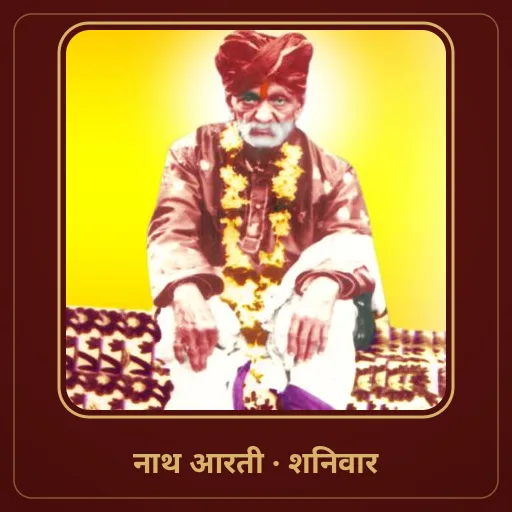
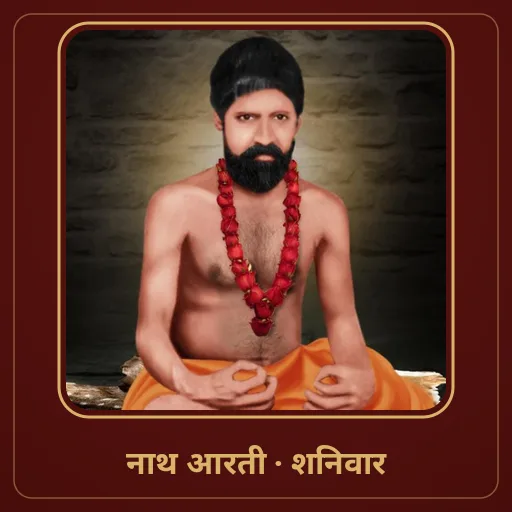
changes

diff --git a/scripts/apply-audio-covers.js b/scripts/apply-audio-covers.js
@@ -13,6 +13,10 @@
 // Only songs with no cover of their own are changed, so an image an admin
 // uploaded is never replaced. Songs sharing a picture share one file.
 //
+// To change a picture, replace its .webp below and run again. Its songs get a
+// fresh copy under a new URL, so phones do not keep showing a cached old one,
+// and the old copy is deleted once nothing uses it.
+//
 // Inputs, bundled so the live server has them too:
 //   assets/audio-covers/<id>.webp   the 512×512 pictures
 //   assets/audio-covers/map.json    { id: { title, audioFile?, image? } } — from
@@ -24,6 +28,7 @@ import fs from 'node:fs'
 import path from 'node:path'
 import { fileURLToPath } from 'node:url'
 import { prisma } from '../src/lib/prisma.js'
+import { removeUploadIfUnused } from '../src/lib/uploadFiles.js'
 
 const ROOT = path.resolve(path.dirname(fileURLToPath(import.meta.url)), '..')
 const SRC = path.join(ROOT, 'assets/audio-covers')
@@ -45,6 +50,15 @@ function fileKey(ref) {
 // clears.
 const OURS = /^\/uploads\/cover\/\d+-audio-[a-z0-9_]+\.webp$/
 
+// True when both files exist and hold the same bytes.
+function sameBytes(a, b) {
+  try {
+    return fs.readFileSync(a).equals(fs.readFileSync(b))
+  } catch {
+    return false
+  }
+}
+
 async function main() {
   const map = JSON.parse(fs.readFileSync(path.join(SRC, 'map.json'), 'utf8'))
   const byFile = new Map()
@@ -62,24 +76,28 @@ async function main() {
     orderBy: [{ productId: 'asc' }, { sortOrder: 'asc' }],
   })
 
-  // Reuse a file this script already copied for the same picture.
+  // Reuse a file this script already copied for the same picture, but only
+  // while it still matches the picture here. A changed picture, or a copy lost
+  // from uploads/, gets a fresh file.
   const existing = new Map()
   for (const s of songs) {
     const m = s.coverUrl && OURS.test(s.coverUrl) && s.coverUrl.match(/-audio-([a-z0-9_]+)\.webp$/)
-    if (m) existing.set(m[1], s.coverUrl)
+    if (m && sameBytes(path.join(ROOT, s.coverUrl), path.join(SRC, `${m[1]}.webp`))) existing.set(m[1], s.coverUrl)
   }
 
   const plan = []
   let kept = 0
+  let current = 0
   let unmatched = 0
   for (const s of songs) {
     const id = byFile.get(fileKey(s.audioUrl)) || byTitle.get(s.title.trim())
     if (!id) { unmatched++; continue }
     if (s.coverUrl && !OURS.test(s.coverUrl)) { kept++; continue } // admin's own image
+    if (s.coverUrl && s.coverUrl === existing.get(id)) { current++; continue } // already up to date
     plan.push({ song: s, id })
   }
 
-  console.log(`${APPLY ? 'Applying' : 'Dry run —'} ${plan.length} song(s) to set, ${kept} keep their own image, ${unmatched} not in the app list (they use the Part cover).`)
+  console.log(`${APPLY ? 'Applying' : 'Dry run —'} ${plan.length} song(s) to set, ${current} already up to date, ${kept} keep their own image, ${unmatched} not in the app list (they use the Part cover).`)
   for (const { song, id } of plan) console.log(`  #${song.id}  ${song.title}  →  ${id}.webp`)
   if (!APPLY) {
     console.log('\nNothing written. Run again with --apply to do it.')
@@ -99,7 +117,9 @@ async function main() {
     const url = urlFor(id)
     if (song.coverUrl === url) continue
     // Guarded on the old value, so an image an admin uploads meanwhile is kept.
-    await prisma.content.updateMany({ where: { id: song.id, coverUrl: song.coverUrl }, data: { coverUrl: url } })
+    const { count } = await prisma.content.updateMany({ where: { id: song.id, coverUrl: song.coverUrl }, data: { coverUrl: url } })
+    // The old copy of a changed picture, once its last song has moved off it.
+    if (count && song.coverUrl) await removeUploadIfUnused(song.coverUrl)
   }
   console.log(`Done. ${plan.length} songs now show the same picture as the app.`)
 }
